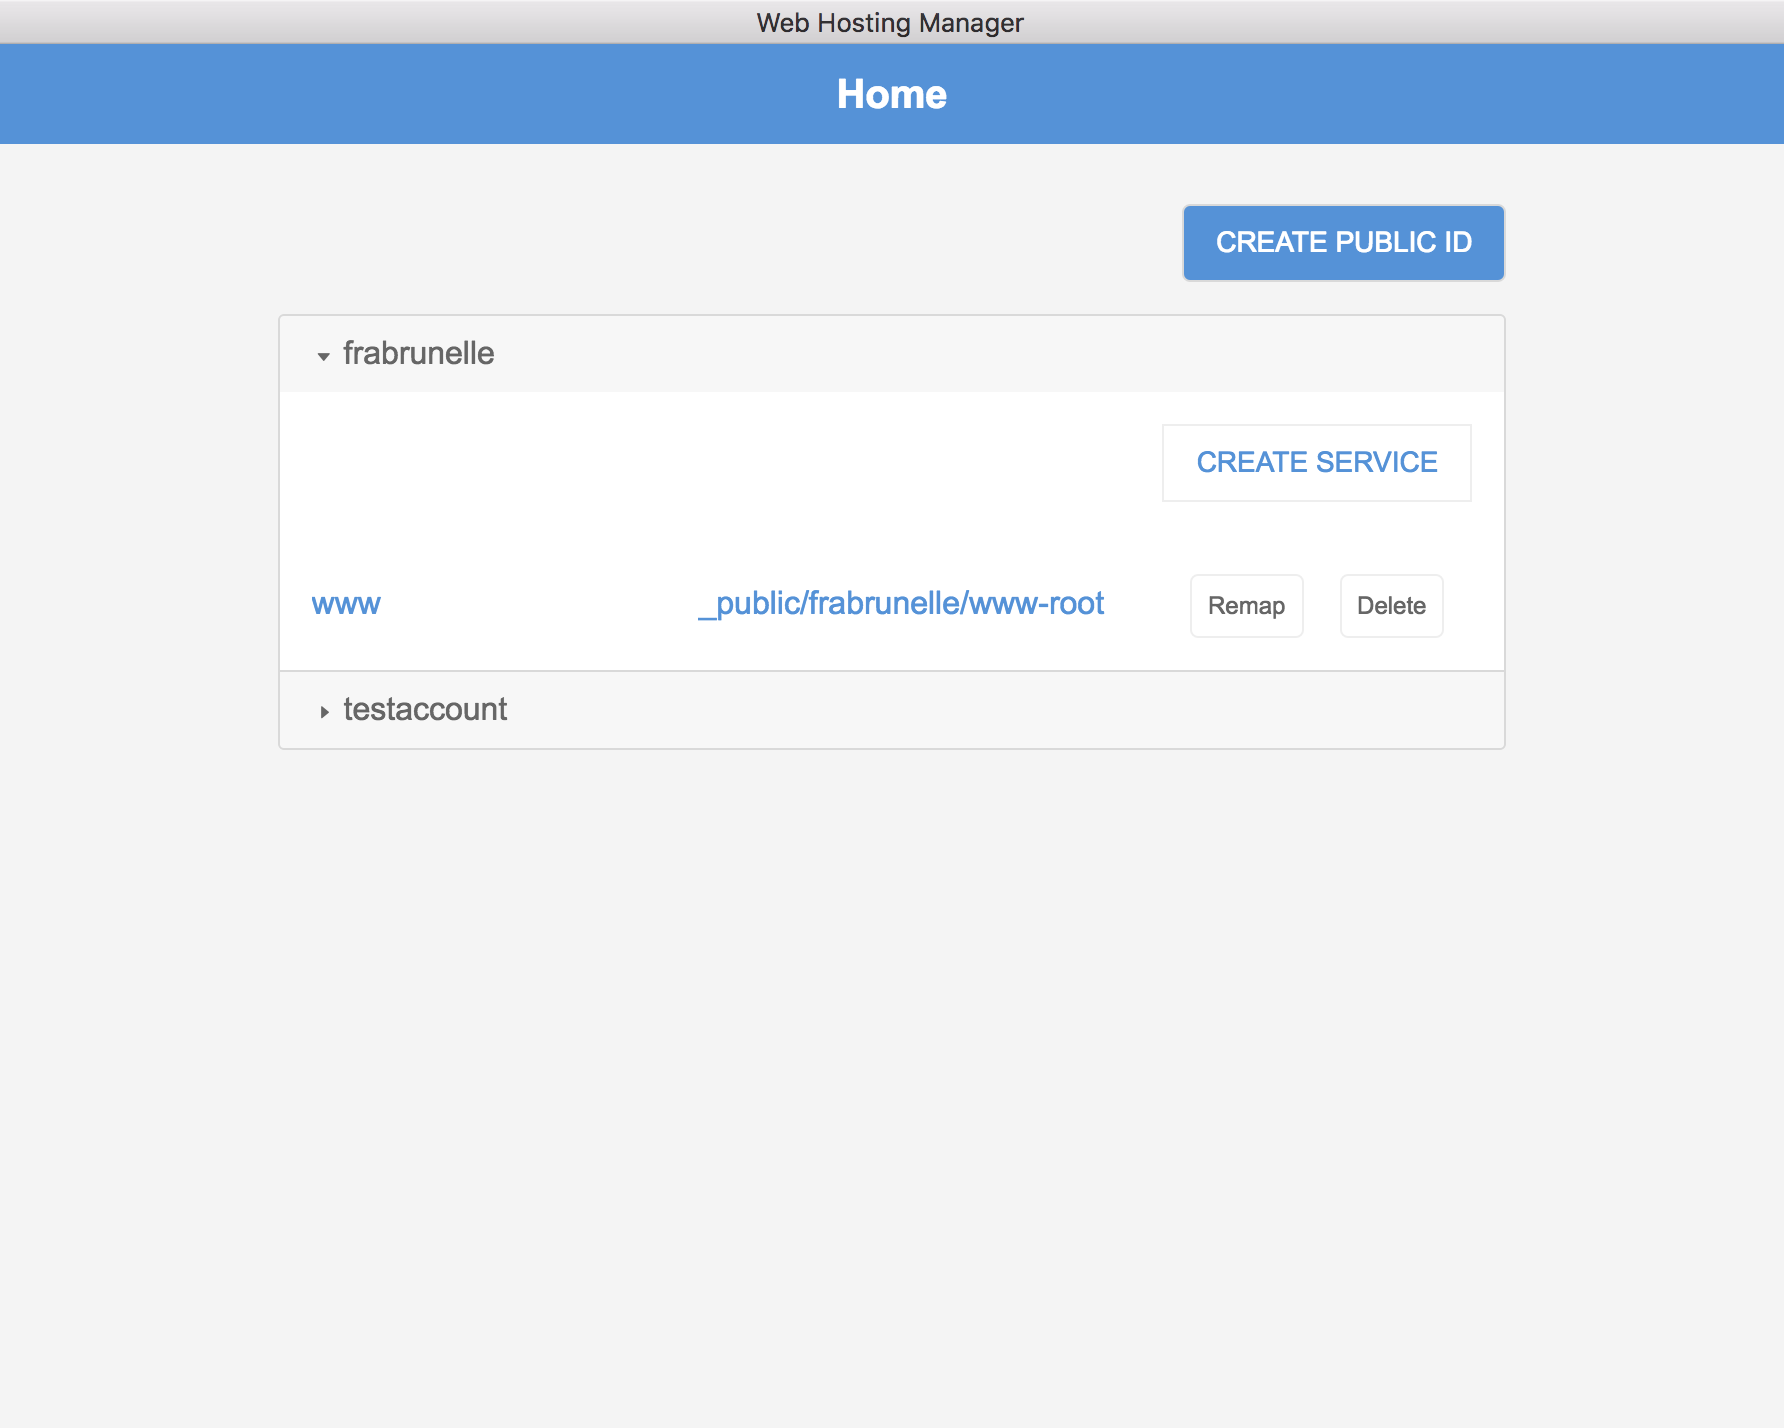
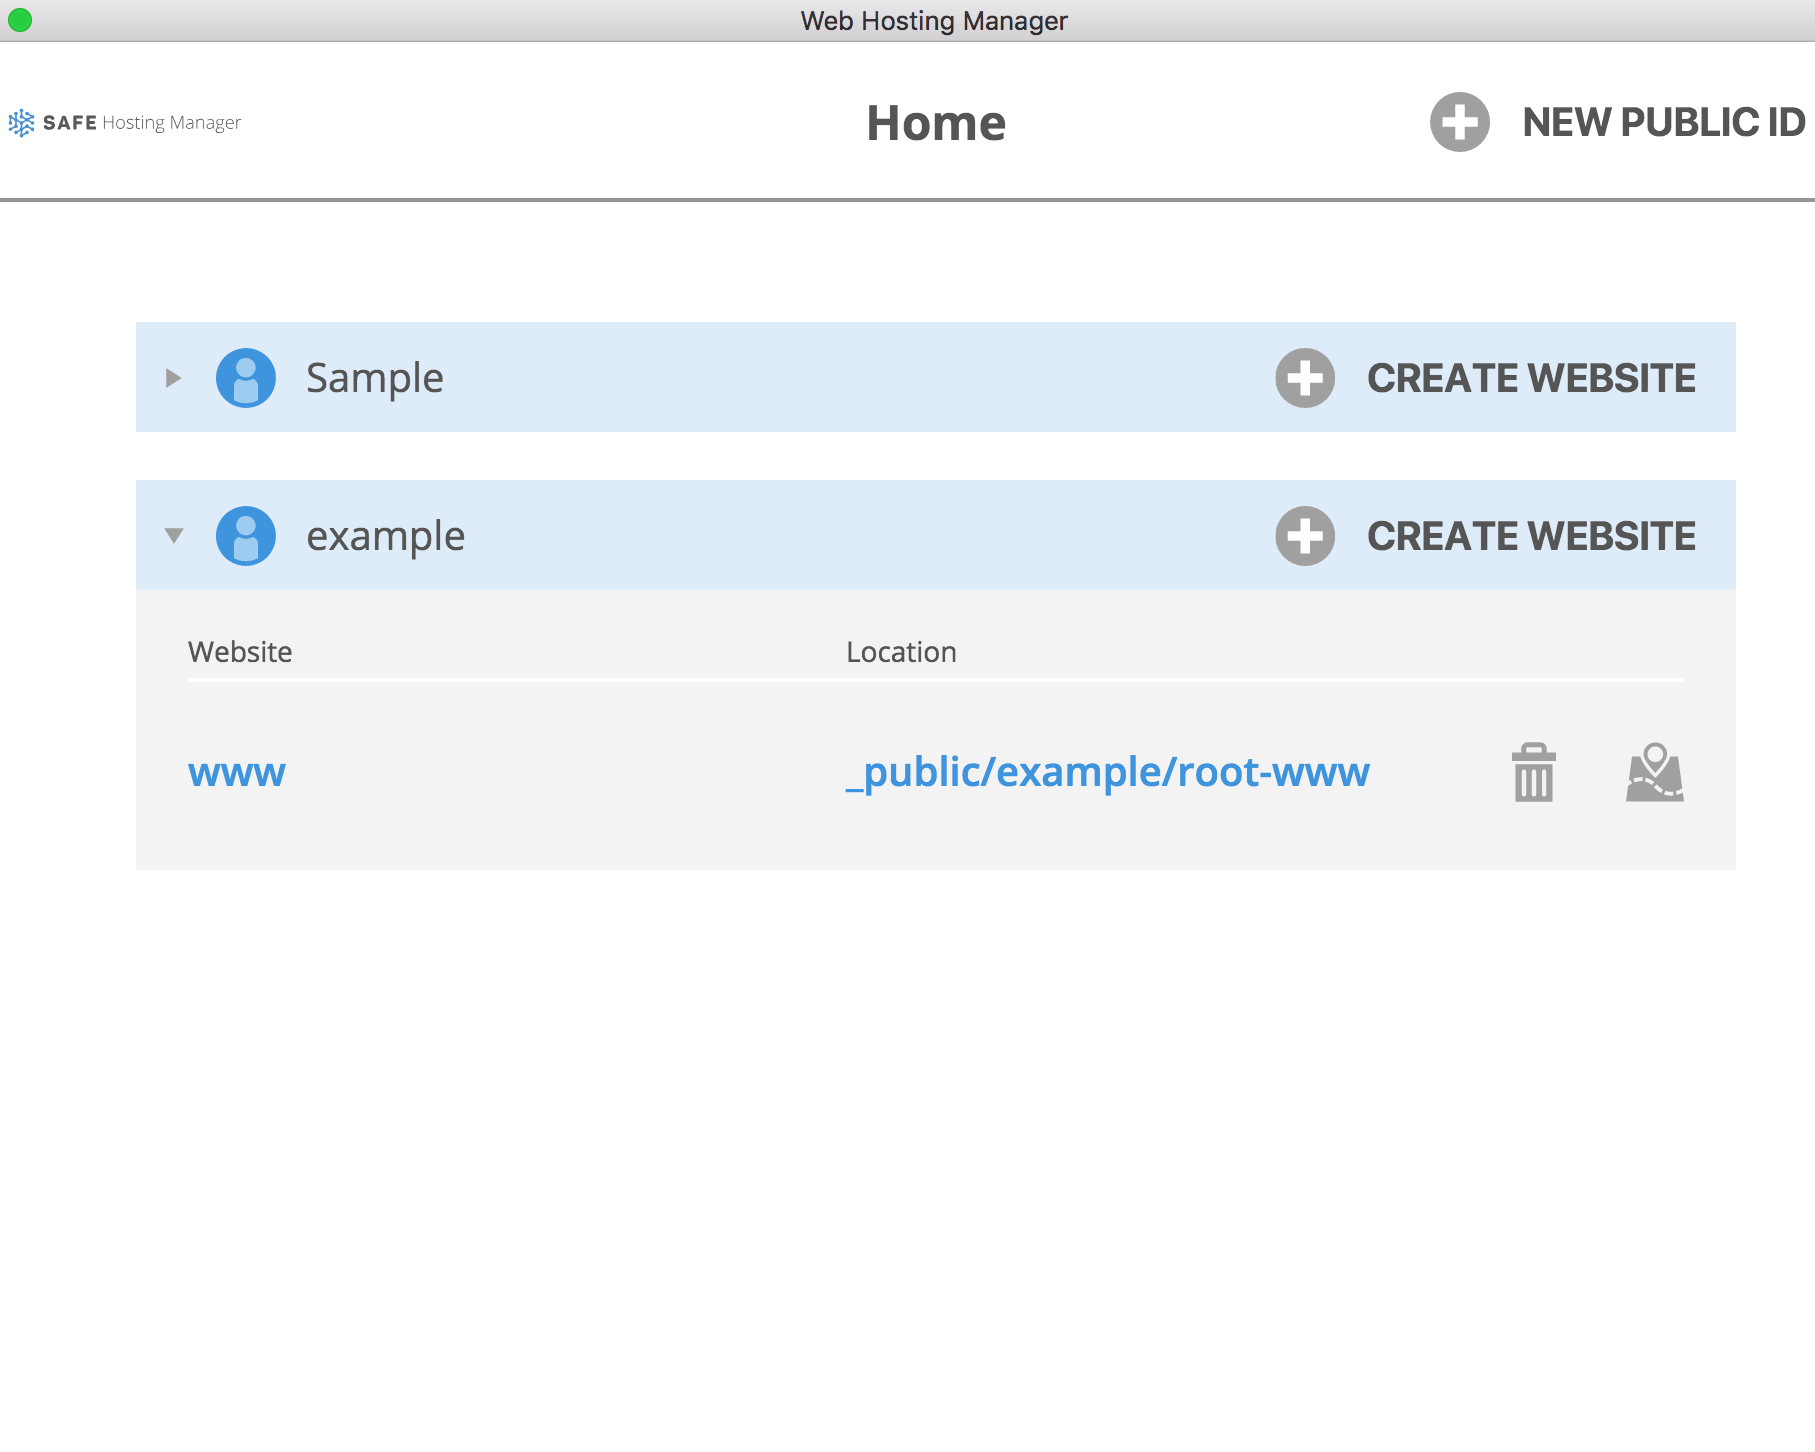
update for Alpha 2

diff --git a/index.html b/index.html
@@ -3,19 +3,19 @@ layout: default
 title: Recently updated apps
 ---
 
-<!-- <section class="jumbotron text-center">
+<section class="jumbotron text-center">
   <div class="container">
     <h1 class="jumbotron-heading">SAFE Network apps</h1>
-    <p class="lead">Apps that are compatible with Alpha 1.</p>
+    <p class="lead">Apps that are compatible with Alpha 2.</p>
     <p>
-      <a href="https://github.com/maidsafe/safe_launcher/releases/tag/0.8.0" class="btn btn-outline-inverse">Download SAFE Launcher v0.8.0</a>
+      <a href="https://safenetforum.org/t/maidsafe-dev-update-september-21-2017-alpha-2/16591" class="btn btn-outline-inverse">Participate in Alpha 2</a>
     </p>
   </div>
 </section>
 
 <div class="container">
   <div class="row">
-    {% assign alpha_network = site.posts | where:"category","Alpha 1" %}
+    {% assign alpha_network = site.posts | where:"category","Alpha 2" %}
     {% for post in alpha_network %}
     <div class="col-md-6 col-lg-4">
       <div class="card">
@@ -27,15 +27,14 @@ title: Recently updated apps
     </div>
     {% endfor %}
   </div>
-</div> -->
+</div>
 
-<section class="jumbotron text-center">
+<!-- <section class="jumbotron text-center">
   <div class="container">
     <h1 class="jumbotron-heading">SAFE Network apps</h1>
     <p class="lead">Apps that are compatible with Test 19.</p>
     <p>
       <a href="https://safenetforum.org/t/maidsafe-dev-update-august-31-2017-test-19/15974" class="btn btn-outline-inverse">Participate in Test 19</a>
-      <!-- <a href="https://github.com/maidsafe/safe_launcher/releases/tag/0.10.0" class="btn btn-outline-inverse">Download SAFE Launcher v0.10.0</a> -->
     </p>
   </div>
 </section>
@@ -54,7 +53,7 @@ title: Recently updated apps
     </div>
     {% endfor %}
   </div>
-</div>
+</div> -->
 
 <section class="jumbotron text-center">
   <div class="container">

diff --git a/_posts/2017-09-21-web-hosting-manager.md b/_posts/2017-09-21-web-hosting-manager.md
@@ -1,0 +1,14 @@
+---
+title: Web Hosting Manager
+github: https://github.com/maidsafe/safe_examples/tree/master/web_hosting_manager
+license: GPLv3
+license_link: https://github.com/maidsafe/safe_examples/tree/master/web_hosting_manager#license
+last_update: https://safenetforum.org/t/maidsafe-dev-update-september-21-2017-alpha-2/16591
+thumbnail: web-hosting-manager.png
+category: Alpha 2
+featured: true
+---
+
+Manage web hosted contents in the SAFE Network using the Web Hosting Manager. Create services/websites and upload web content that can be hosted in the network. The hosted services can be viewed using the SAFE Browser.
+
+##### [Download Web Hosting Manager v0.4.0](https://github.com/maidsafe/safe_examples/releases/tag/alpha-2)

diff --git a/_posts/2017-09-21-safe-browser.md b/_posts/2017-09-21-safe-browser.md
@@ -1,0 +1,16 @@
+---
+title: SAFE Browser
+github: https://github.com/maidsafe/safe_browser
+license: MIT
+license_link: https://github.com/maidsafe/safe_browser/blob/master/BEAKER_LICENSE.md
+last_update: https://safenetforum.org/t/maidsafe-dev-update-september-21-2017-alpha-2/16591
+thumbnail: safe-browser.png
+category: Alpha 2
+featured: true
+---
+
+## A browser for the SAFE Network
+
+Browse public content and web applications in the SAFE Network using SAFE Browser. SAFE Authenticator is integrated with the SAFE Browser for managing user accounts in the SAFE Network.
+
+##### [Download SAFE Browser v0.6.0](https://github.com/maidsafe/safe_browser/releases/tag/alpha-2)

diff --git a/_posts/2017-09-21-safe-mail-tutorial.md b/_posts/2017-09-21-safe-mail-tutorial.md
@@ -1,0 +1,12 @@
+---
+title: SAFE Mail Tutorial
+github: https://github.com/maidsafe/safe_examples/tree/master/email_app
+last_update: https://safenetforum.org/t/maidsafe-dev-update-september-21-2017-alpha-2/16591
+thumbnail: safe-mail-tutorial.png
+category: Alpha 2
+featured: true
+---
+
+SAFE Mail provides end-to-end encrypted email using the public key of the recipient to encrypt the message. Create an ID and send messages to other users from desktop and mobile.
+
+##### [Download SAFE Mail Tutorial v0.4.0](https://github.com/maidsafe/safe_examples/releases/tag/alpha-2)
